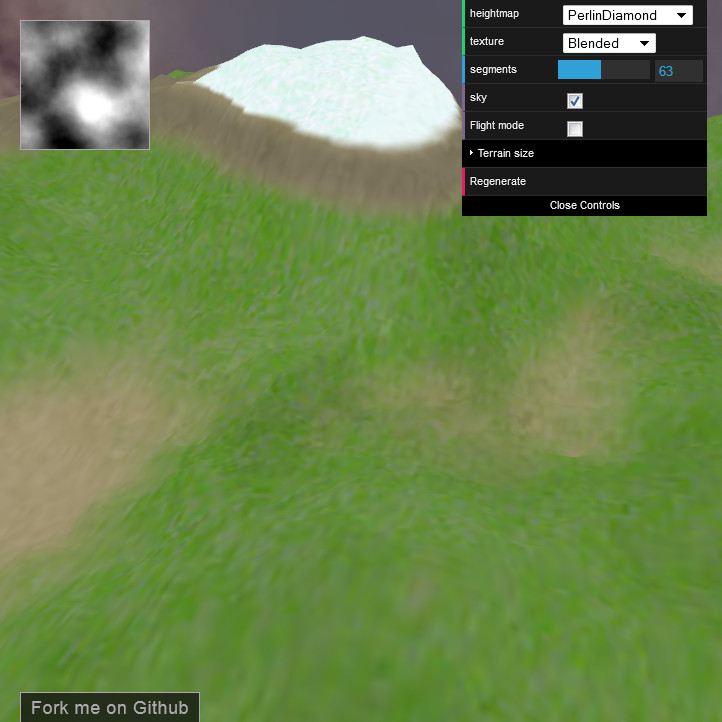
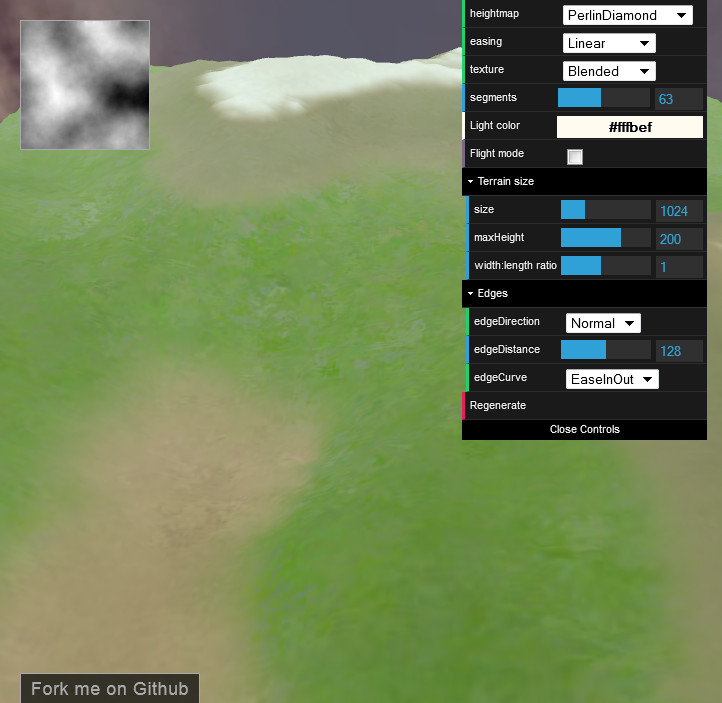
Minor documentation updates

diff --git a/THREE.Terrain.js b/THREE.Terrain.js
@@ -3,6 +3,7 @@
  *
  * Usage: `var terrainScene = THREE.Terrain();`
  *
+ * TODO: Decide on a way to document maxVariation and perlinScale
  * TODO: Allow scattering other meshes randomly across the terrain
  * TODO: Implement optimization types?
  * TODO: Implement hill algorithm (feature picking)
@@ -46,9 +47,9 @@
  *   - `material`: a THREE.Material instance used to display the terrain.
  *     Defaults to `new THREE.MeshBasicMaterial({color: 0xee6633})`.
  *   - `maxHeight`: the highest point, in Three.js units, that a peak should
- *     reach. Defaults to 300.
+ *     reach. Defaults to 100.
  *   - `minHeight`: the lowest point, in Three.js units, that a valley should
- *     reach. Defaults to -50.
+ *     reach. Defaults to -100.
  *   - `useBufferGeometry`: a Boolean indicating whether to use
  *     THREE.BufferGeometry instead of THREE.Geometry for the Terrain plane.
  *     Defaults to `true`.

diff --git a/README.md b/README.md
@@ -16,6 +16,7 @@ Then, in your own script, generate a terrain and add it to your scene:
 
 ```javascript
 terrainScene = THREE.Terrain({
+    easing: THREE.Terrain.Linear,
     heightmap: THREE.Terrain.DiamondSquare,
     material: new THREE.MeshBasicMaterial({color: 0x5566aa}),
     maxHeight: 100,
